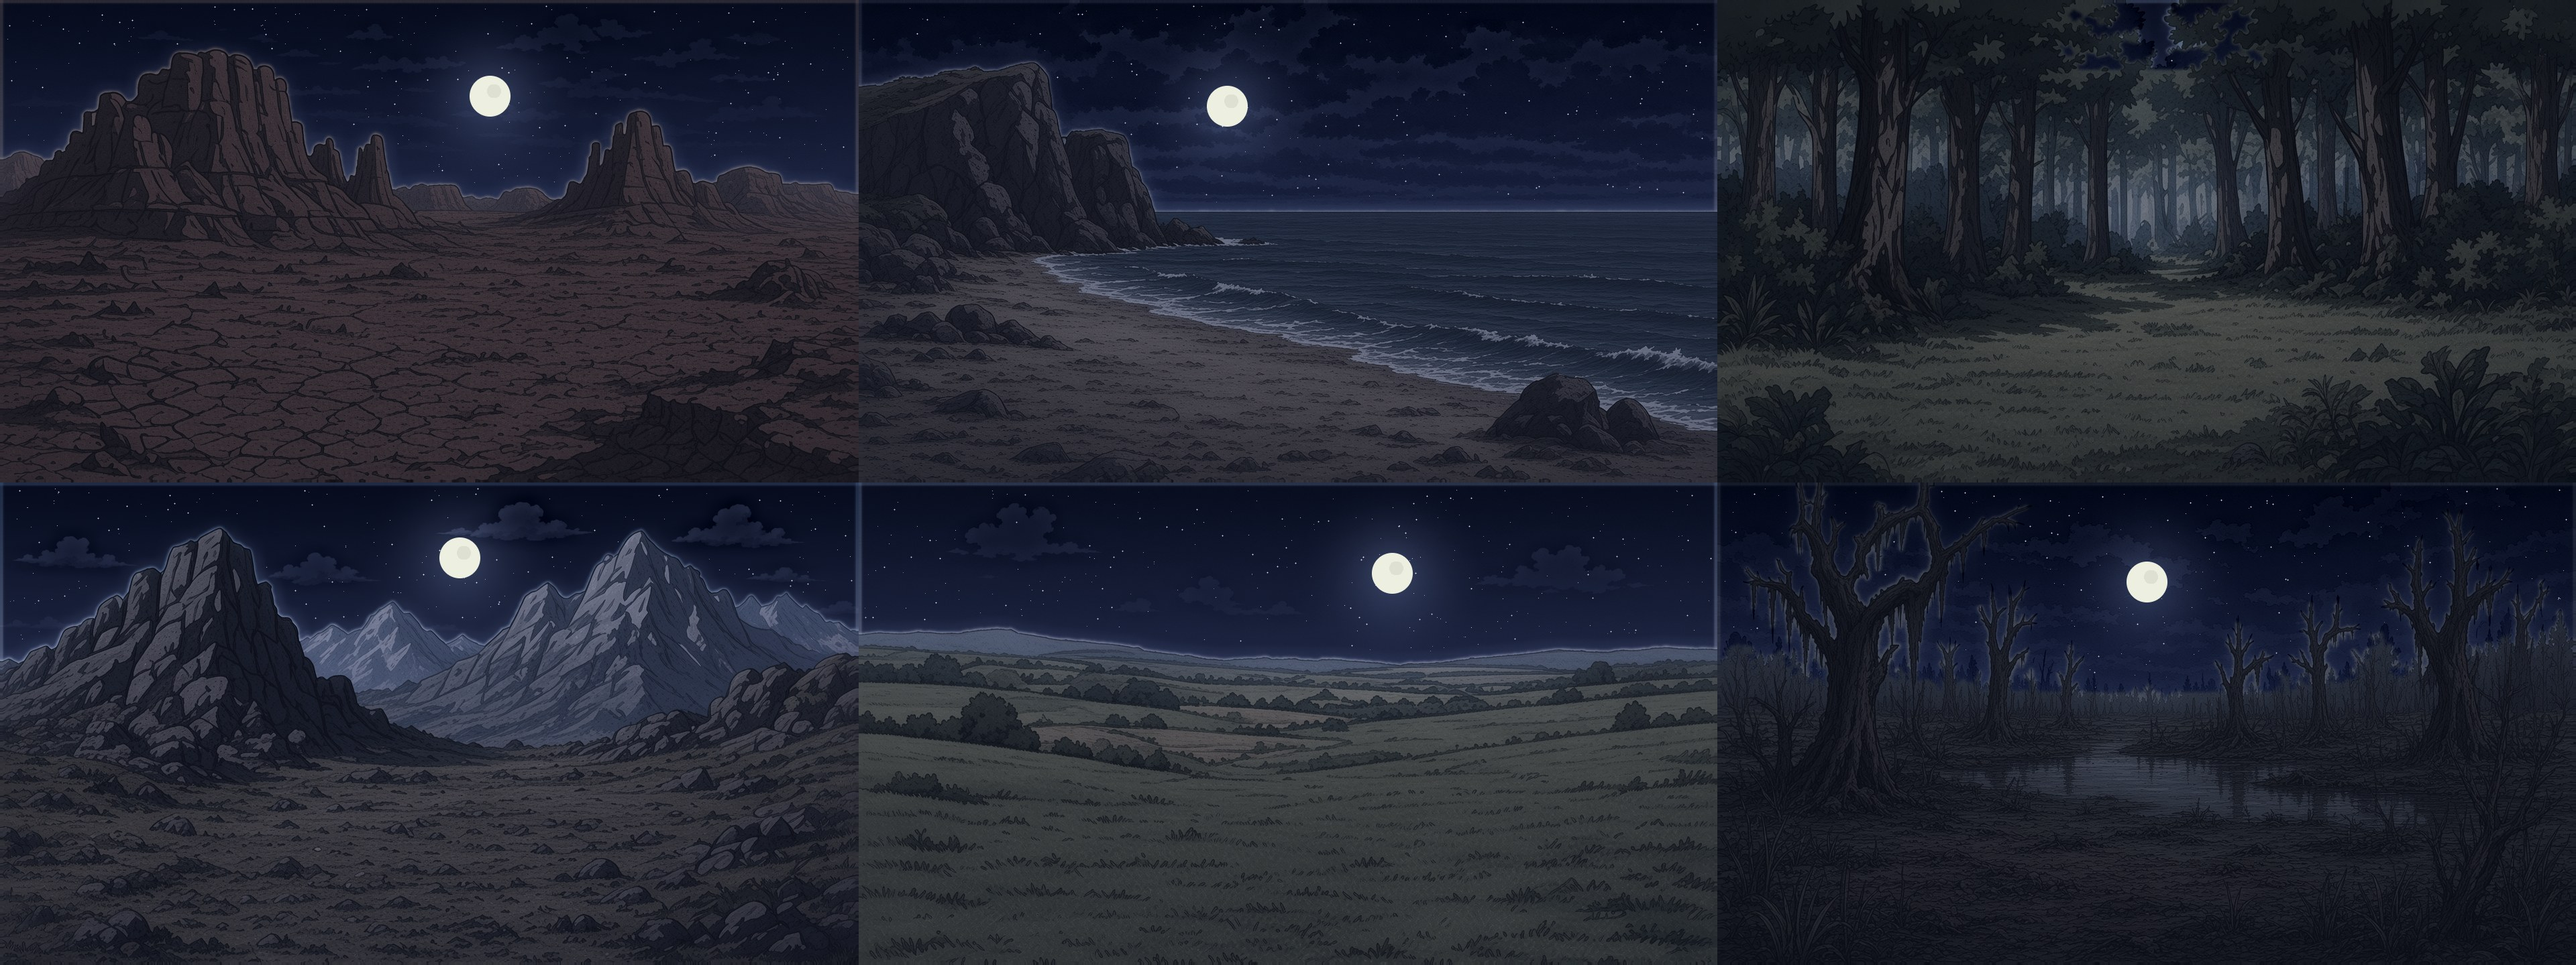
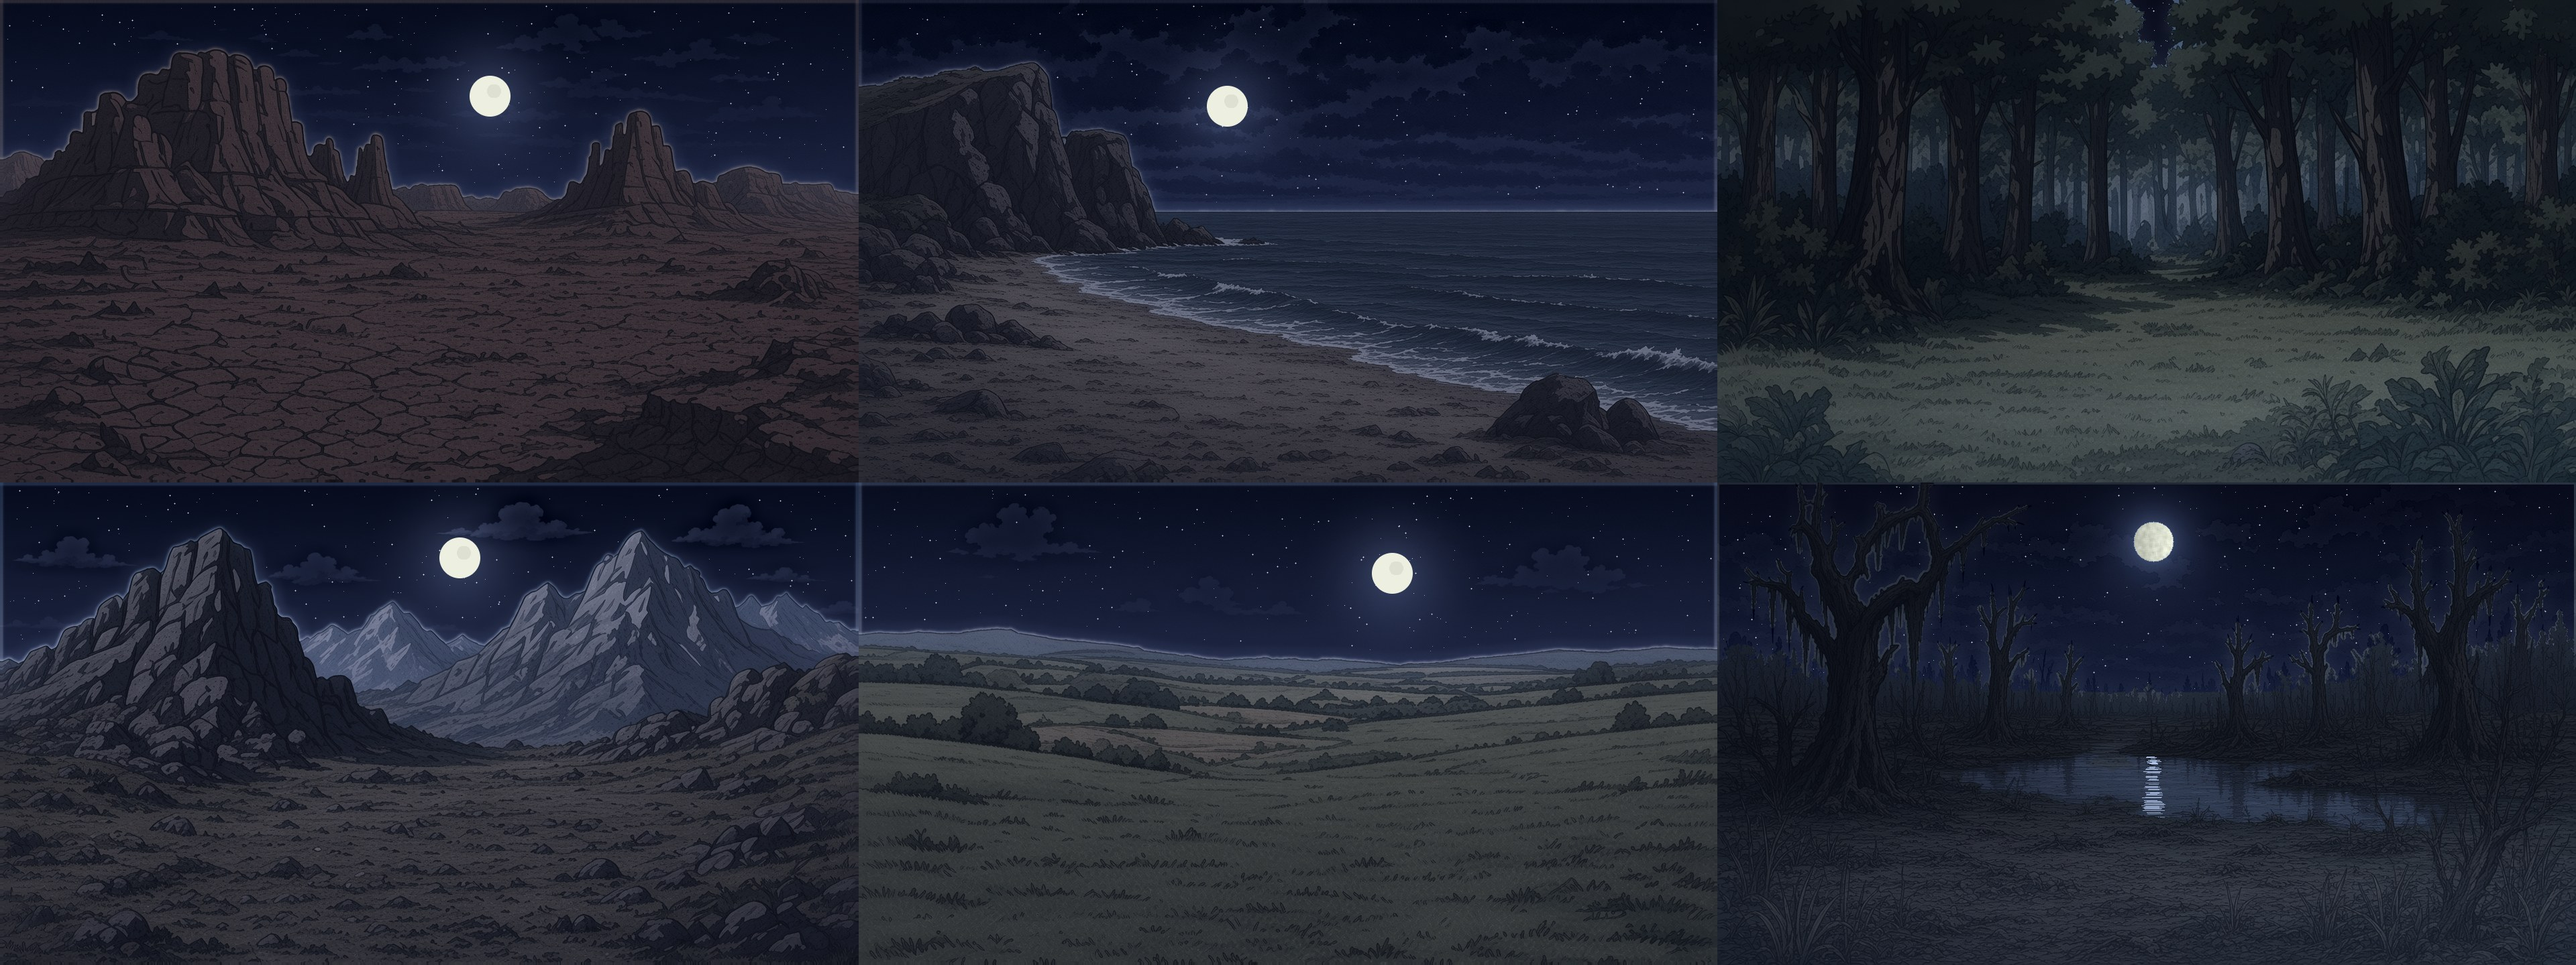
demo: hand-painted night forest and swamp (source main 1ac5bd8)
Claude-Session: https://claude.ai/code/session_01J1QQt7ibqHodhcc2ojsr1u

diff --git a/README.md b/README.md
@@ -2,4 +2,4 @@
 
 Compiled demo for personal, non-commercial evaluation under LICENSE.txt. Not an open-source release. Third-party components retain their own terms; see THIRD-PARTY-NOTICES.txt.
 
-Game version: f8533d1 (main). Starts at the title screen: New game or Continue. The battle test launcher is on the title screen, or open the page with ?launcher. Source code and private development history are not included.
+Game version: 1ac5bd8 (main). Starts at the title screen: New game or Continue. The battle test launcher is on the title screen, or open the page with ?launcher. Source code and private development history are not included.
